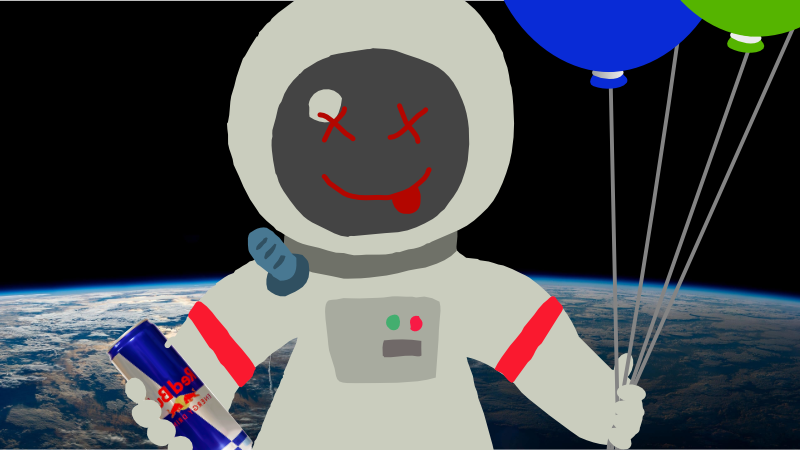
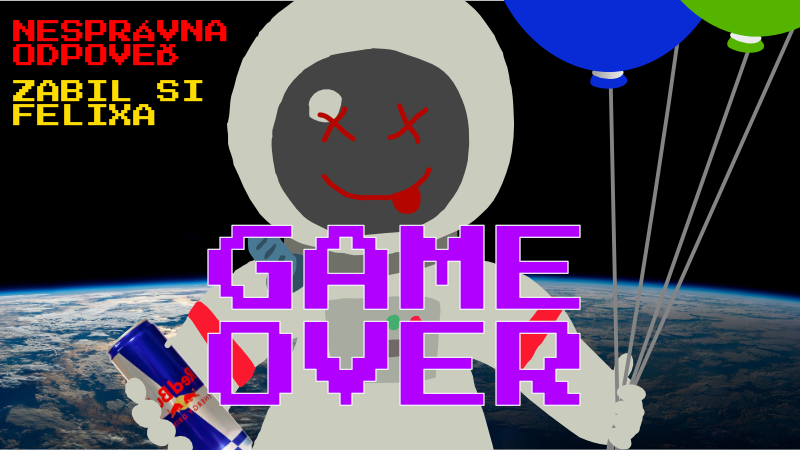
Assignments

Changed region(s): [[0.25, 0.4978, 0.75, 0.9022], [0.0, 0.0311, 0.2812, 0.28]]

diff --git a/templates/index.html b/templates/index.html
@@ -11,16 +11,23 @@
 <!-- Dialog -->
 <dialog class="nes-dialog" id="dialog-default">
 	<form method="dialog">
-		<p>
-			Felix vie, že najľahší vzorec na výpočet hodnoty g na zemskom povrchu je g = g<span class="sub">e</span>
-			*(1+beta*sin<span class="sup">2</span>fi). Felix si navyše pamätá, že g<span class="sub">e</span> je tiažové zrýchlenie na rovníku,
-			beta je konštanta s hodnotou 0.0052884 a fi je zemepisná šírka. Škoda, že si Felix zabudol do vesmíru zobrať
-			kalkulačku…
-		</p>
-		<p>
-			Keďže tiažové zrýchlenie na Zemi sa mení iba v závislosti od zemepisnej šírky, zemepisnú dĺžku vôbec nebudeš na
-			výpočet potrebovať.
-		</p>
+		{% if assignment == '1' %}
+			<p>
+				Felix vie, že najľahší vzorec na výpočet hodnoty g na zemskom povrchu je g = g<span class="sub">e</span>
+				*(1+beta*sin<span class="sup">2</span>fi). Felix si navyše pamätá, že g<span class="sub">e</span> je tiažové zrýchlenie na rovníku,
+				beta je konštanta s hodnotou 0.0052884 a fi je zemepisná šírka. Škoda, že si Felix zabudol do vesmíru zobrať
+				kalkulačku…
+			</p>
+			<p>
+				Keďže tiažové zrýchlenie na Zemi sa mení iba v závislosti od zemepisnej šírky, zemepisnú dĺžku vôbec nebudeš na
+				výpočet potrebovať.
+			</p>
+		{% elif assignment == '2' %}
+			<p>
+				Zmena hodnoty tiažového zrýchlenia g so zmenou nadmorskej výšky sa dá ľahko spočítať podľa tohto vzorca:
+				deltag = -0.000003086*h [m.s-2].
+			</p>
+		{% endif %}
 		<menu class="dialog-menu" style="text-align: center; padding: 0;">
 			<button class="nes-btn is-primary">OK</button>
 		</menu>
@@ -32,17 +39,30 @@
 	<div class="container">
 		<main class="main-content">
 			<section class="nes-container with-title">
-				<h3 class="title">Zadanie 1</h3>
+				<h3 class="title">
+					{% if assignment == '1' %}
+						Zadanie 1
+					{% elif assignment == '2' %}
+						Zadanie 2
+					{% endif %}
+				</h3>
 			{% if stage == 'intro' %}
 				<p style="text-align: justify;">
 					Pomôž Felixovi Baumgartnerovi s jeho zoskokom zo stratosféry 14. októbra 2012. Felix potrebuje vedieť, aké
 					tiažové zrýchlenie g na neho bude pôsobiť, keď vyskočí.
 				</p>
 			{% elif stage in ['assignment', 'fail'] %}
-				<p style="text-align: justify;">
-					Geografické súradnice zoskokového bodu sú 104°32’21“
-					zemepisnej dĺžky, 33°18’39“ zemepisnej šírky a bude skákať z výšky 38 969.3 m.n.m.
-				</p>
+				{% if assignment == '1' %}
+					<p style="text-align: justify;">
+						Geografické súradnice zoskokového bodu sú 104°32’21“
+						zemepisnej dĺžky, 33°18’39“ zemepisnej šírky a bude skákať z výšky 38 969.3 m.n.m.
+					</p>
+				{% elif assignment == '2' %}
+					<p style="text-align: justify;">
+						Už si síce vypočítal nejaké tiažové zrýchlenie, ale je platné len na povrchu Zeme. To je Felixovi na nič,
+						keďže skáče z takmer štyridsiatich kilometrov! Aké tiažové zrýchlenie bude na neho pôsobiť vo výške 38 369.4m?
+					</p>
+				{% endif %}
 			{% elif stage == 'success' %}
 				<p style="text-align: justify;">
 					{{ session['name'] }}, teraz je čas urobiť screenshot!

diff --git a/app.py b/app.py
@@ -7,24 +7,31 @@ app.secret_key = os.getenv('SECRET')
 
 
 @app.route('/', methods=['GET', 'POST'])
-def assignment1():
+def index():
     stage = session.get('stage', 'intro')
+    assignment = session.get('assignment', '1')
     if request.method == 'POST':
         if stage == 'intro':
             session['name'] = request.form['name'].strip()
             stage = 'assignment'
         elif stage in ['assignment', 'fail']:
-            if request.form['answer'] == '42':
-                stage = 'success'
-            else:
-                stage = 'fail'
+            if assignment == '1':
+                if request.form['answer'] == '42':
+                    stage = 'assignment'
+                    assignment = '2'
+                else:
+                    stage = 'fail'
+            elif assignment == '2':
+                stage = 'success' if request.form['answer'] == '42' else 'fail'
+
     else:
         if stage in ['fail', 'success']:
             stage = 'assignment'
 
     session['stage'] = stage
+    session['assignment'] = assignment
 
-    return render_template('index.html', stage=stage)
+    return render_template('index.html', stage=stage, assignment=assignment)
 
 
 if __name__ == '__main__':
